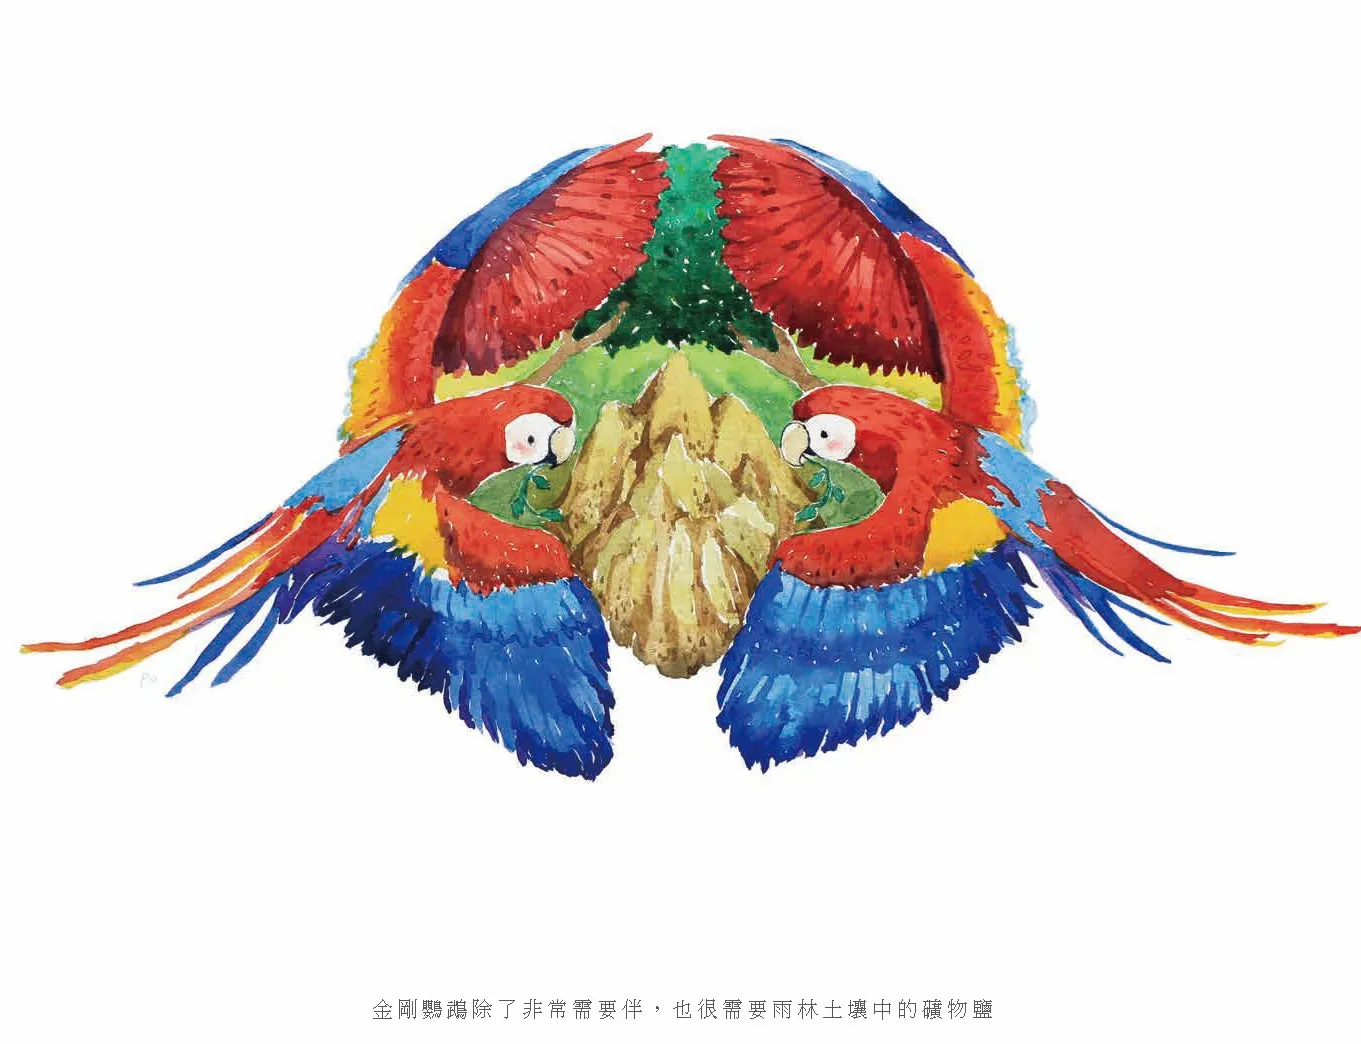
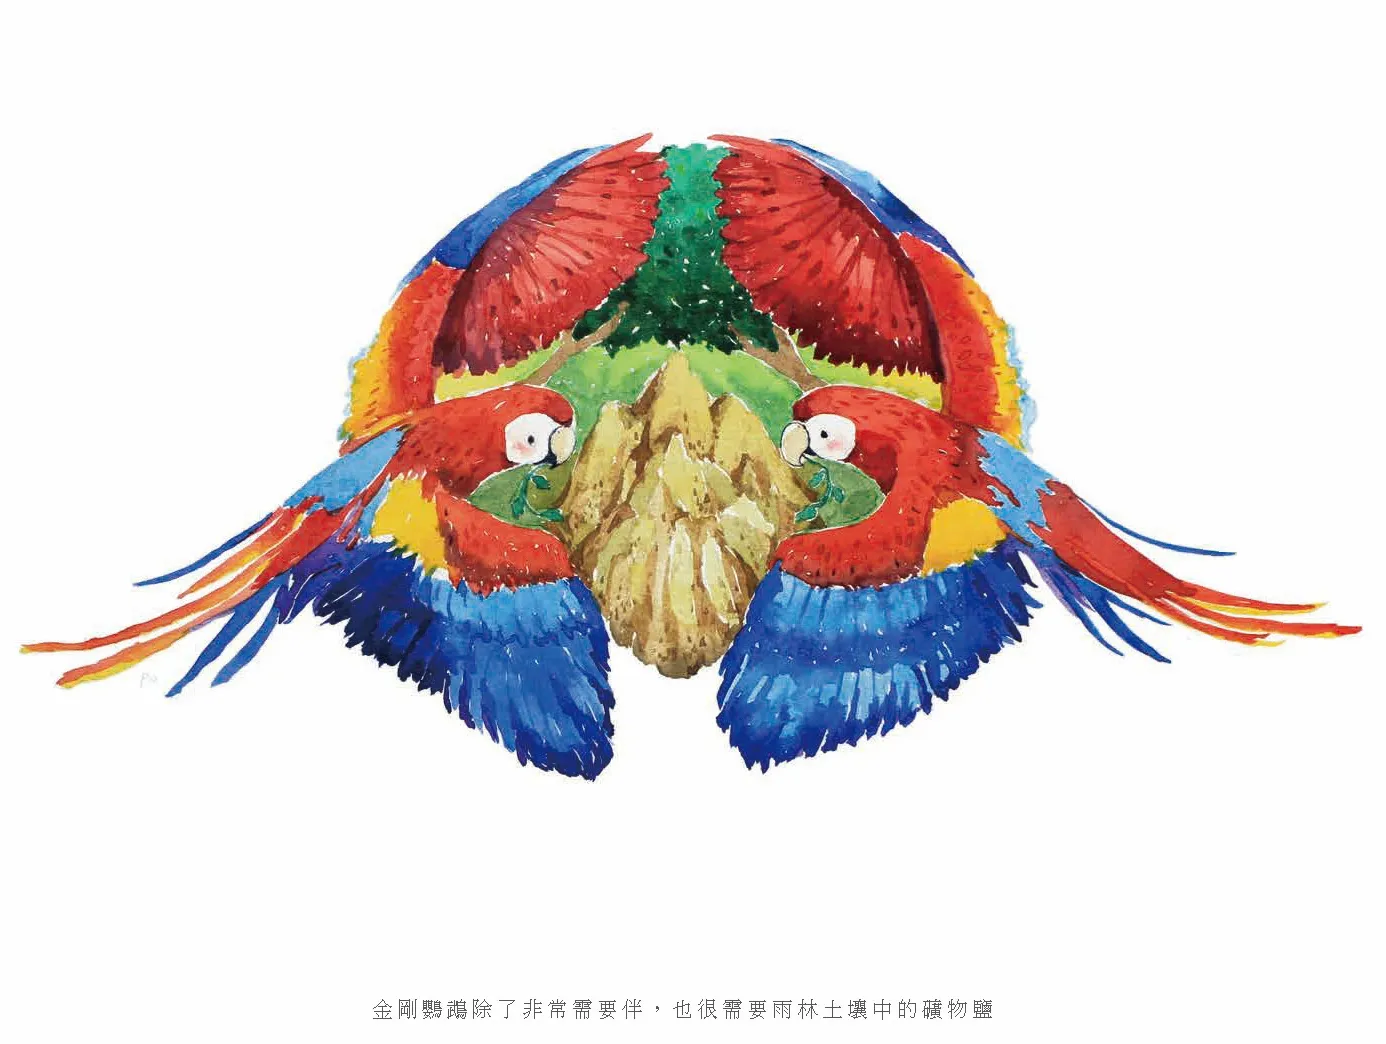
Border trim: also stop at ink on left/right (Animal Origins I cover title was cropped); regenerate 6 images
Claude-Session: https://claude.ai/code/session_01NxpqThNkRqZ1726zKgmkzN

Changed region(s): [[0.0617, 0.1226, 1.0, 0.7663], [0.2777, 0.9502, 0.7406, 0.9808]]

diff --git a/js/projects-data.js b/js/projects-data.js
@@ -442,7 +442,7 @@ window.SITE_PROJECTS = window.SITE_PROJECTS_ALL.filter(function (p) { return !p.
 /* ---- helpers ---- */
 // 圖片重新產生過的專案，在網址加上版本號，瀏覽器才不會一直用舊的快取圖（之後哪個資料夾的圖有換，就把它加進來或改日期）
 window.IMG_VER = {
-  animal_origins_1: '20261019', animal_origins_2: '20261019', animal_origins_3: '20261019', trip_in_the_world: '20261019',
+  animal_origins_1: '20261019b', animal_origins_2: '20261019b', animal_origins_3: '20261019b', trip_in_the_world: '20261019b',
 };
 window.projectImage = function (id, n) {
   return 'pic_projects/' + id + '/' + id + '_' + String(n).padStart(2, '0') + '.webp' + (window.IMG_VER[id] ? '?v=' + window.IMG_VER[id] : '');

diff --git a/about.html b/about.html
@@ -178,7 +178,7 @@
 
 <div data-slot="footer"></div>
 
-<script src="js/projects-data.js?v=20261019b"></script>
+<script src="js/projects-data.js?v=20261019c"></script>
 <script src="js/main.js?v=20261019c"></script>
 </body>
 </html>

diff --git a/contact.html b/contact.html
@@ -103,7 +103,7 @@
 
 <div data-slot="footer"></div>
 
-<script src="js/projects-data.js?v=20261019b"></script>
+<script src="js/projects-data.js?v=20261019c"></script>
 <script src="js/main.js?v=20261019c"></script>
 </body>
 </html>

diff --git a/index.html b/index.html
@@ -73,7 +73,7 @@
 
 <div data-slot="footer"></div>
 
-<script src="js/projects-data.js?v=20261019b"></script>
+<script src="js/projects-data.js?v=20261019c"></script>
 <script src="js/main.js?v=20261019c"></script>
 </body>
 </html>

diff --git a/project.html b/project.html
@@ -37,7 +37,7 @@
 
 <div data-slot="footer"></div>
 
-<script src="js/projects-data.js?v=20261019b"></script>
+<script src="js/projects-data.js?v=20261019c"></script>
 <script src="js/main.js?v=20261019c"></script>
 </body>
 </html>

diff --git a/projects.html b/projects.html
@@ -42,7 +42,7 @@
 
 <div data-slot="footer"></div>
 
-<script src="js/projects-data.js?v=20261019b"></script>
+<script src="js/projects-data.js?v=20261019c"></script>
 <script src="js/main.js?v=20261019c"></script>
 </body>
 </html>
